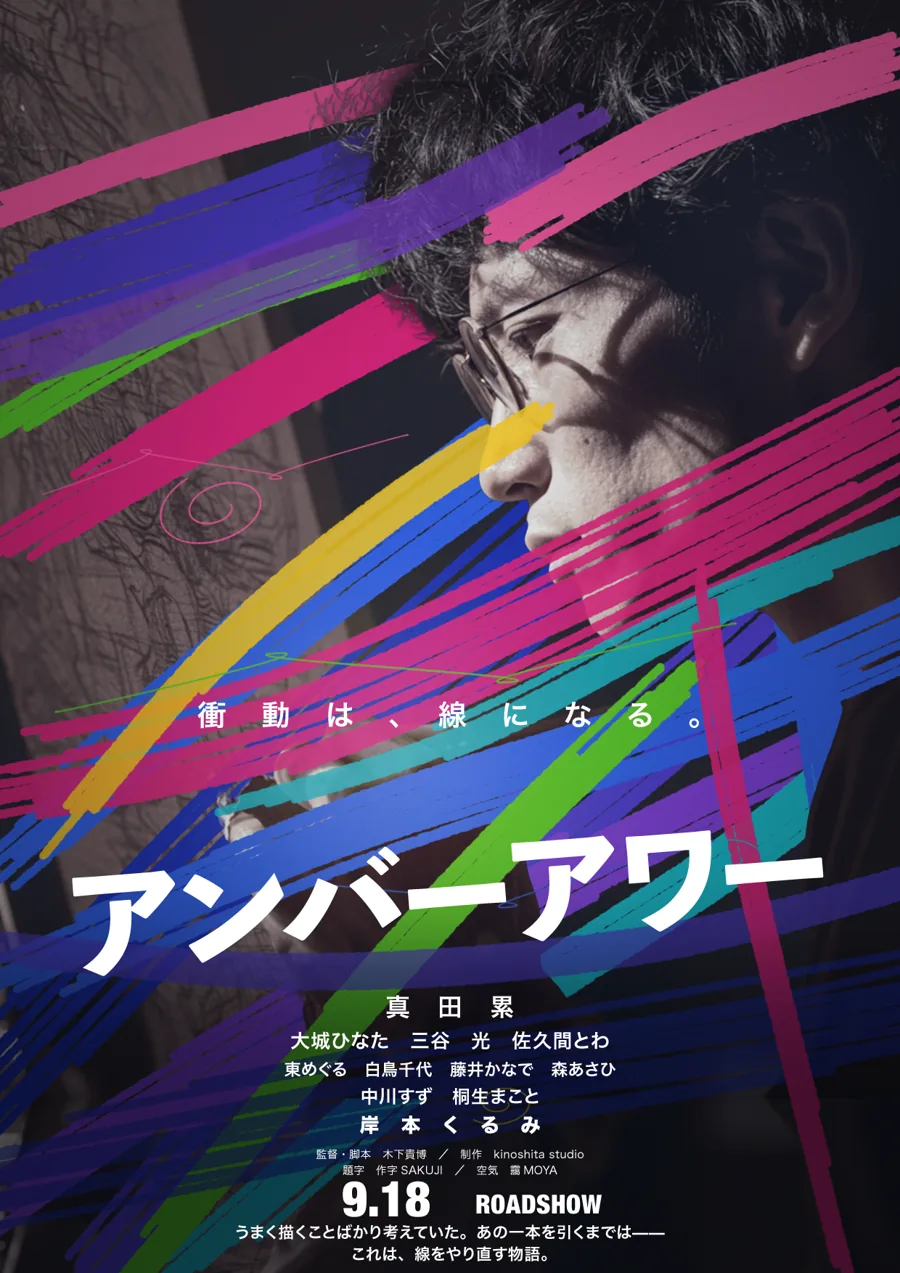
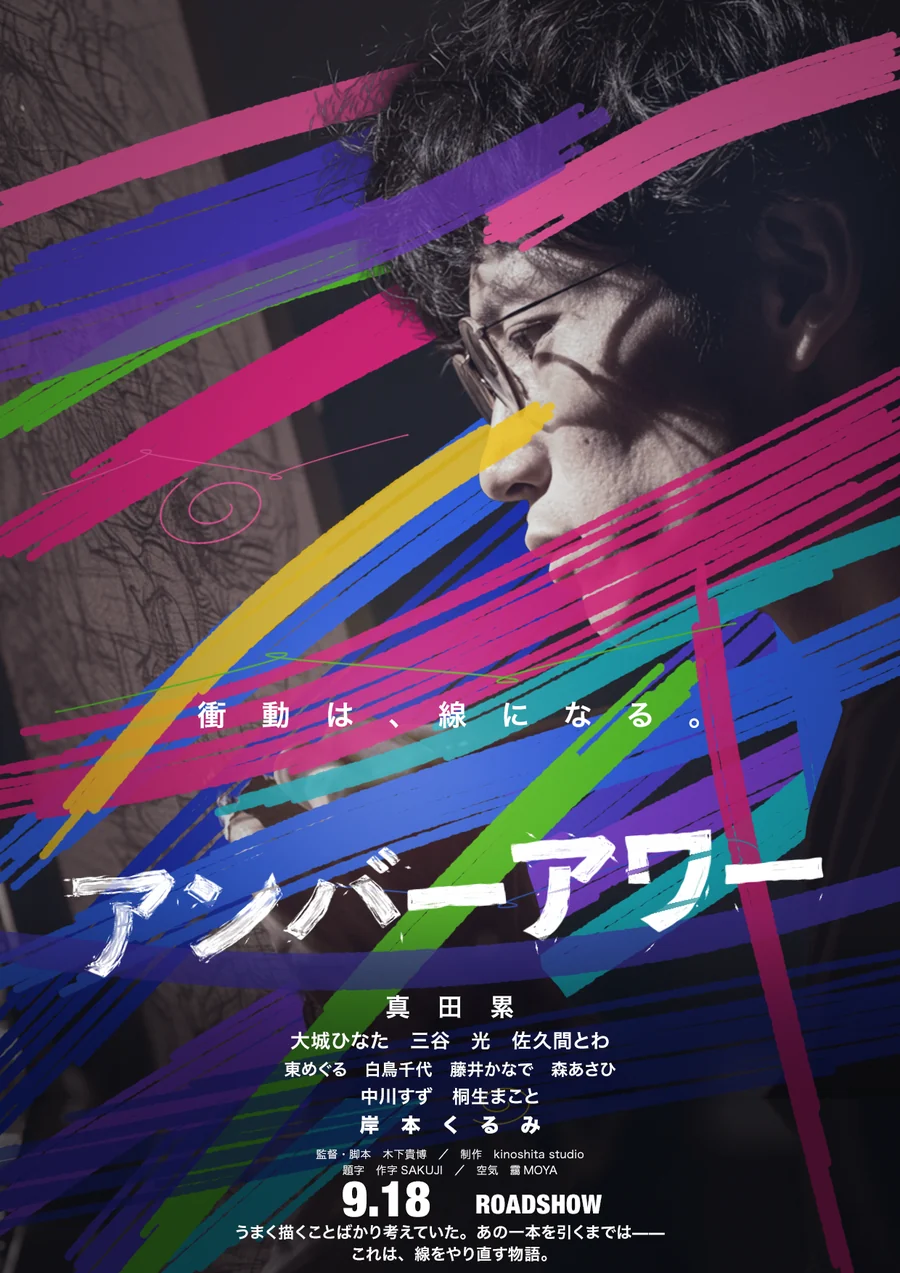
アンバーアワー：題字を筆で汚した版に差し替え（3ページ・?v=20260925a）

diff --git a/art-direction.html b/art-direction.html
@@ -328,7 +328,7 @@
     <div class="ad-strip" id="ad-strip">
       <figure><img src="assets/img/img-poster-hajimarinoiro.webp" alt="木下スタジオ制作：映画ポスター「ハジマリノイロ」" loading="eager"><figcaption>Poster</figcaption></figure>
       <figure><img src="assets/_orphans/9C96D522-9757-448B-9BEA-A83E04468F14.webp" alt="木下スタジオ：フィルム写真 — ライトリーク・光とフレア" loading="lazy"><figcaption>Photo</figcaption></figure>
-      <figure><img src="assets/img/img-poster-amberhour.webp" alt="木下スタジオ制作：映画ポスター「アンバーアワー」" loading="lazy"><figcaption>Poster</figcaption></figure>
+      <figure><img src="assets/img/img-poster-amberhour.webp?v=20260925a" alt="木下スタジオ制作：映画ポスター「アンバーアワー」" loading="lazy"><figcaption>Poster</figcaption></figure>
       <figure><img src="assets/img/img-graphic-natsunohi.webp" alt="木下スタジオ：コンセプトグラフィック「夏の日残像」" loading="lazy"><figcaption>Graphic</figcaption></figure>
       <figure><img src="assets/img/img-poster-scratch.webp" alt="木下スタジオ制作：映画ポスター「スクラッチ」" loading="lazy"><figcaption>Poster</figcaption></figure>
     </div>

diff --git a/taka/index.html b/taka/index.html
@@ -484,7 +484,7 @@ main.list{max-width:1440px;margin:0 auto;padding-block:120px 160px}
     <span class="cap"><b>99LETTERS — Kaibou Zukan</b><span class="mono">2LP — DISCIPLES（DISC18）/ 2022</span><span class="mono r">MUSIC / AD / PHOTO ・ LAYOUT: STUDIO TAPE-ECHO</span></span>
   </a>
   <a href="/flyer-poster-work.html" class="w" data-k="poster">
-    <img src="img/amberhour.webp" alt="アンバーアワー" >
+    <img src="img/amberhour.webp?v=20260925a" alt="アンバーアワー" >
     <span class="cap"><b>アンバーアワー</b><span class="mono">CINEMA POSTER</span><span class="mono r">AD / DESIGN</span></span>
   </a>
   <a href="/branding-logo-work.html" class="w" data-k="type">

diff --git a/flyer-poster-work.html b/flyer-poster-work.html
@@ -410,7 +410,7 @@
       <div class="work-cat-label">Self-Initiated / Film Key Visual</div>
     </div>
     <div class="work-visual">
-      <img src="assets/img/img-poster-amberhour.webp"
+      <img src="assets/img/img-poster-amberhour.webp?v=20260925a"
            alt="木下スタジオ（木下貴博 / 滋賀）自主制作：映画ポスター「アンバーアワー」— モノクロの人物に色の線だけを走らせた B1 想定のキービジュアル"
            class="work-img" width="900" height="1273" loading="lazy">
       <p class="work-desc">モノクロの人物の上に色の線だけを走らせ、写真は動かさずに線の速さで感情を出した。</p>
